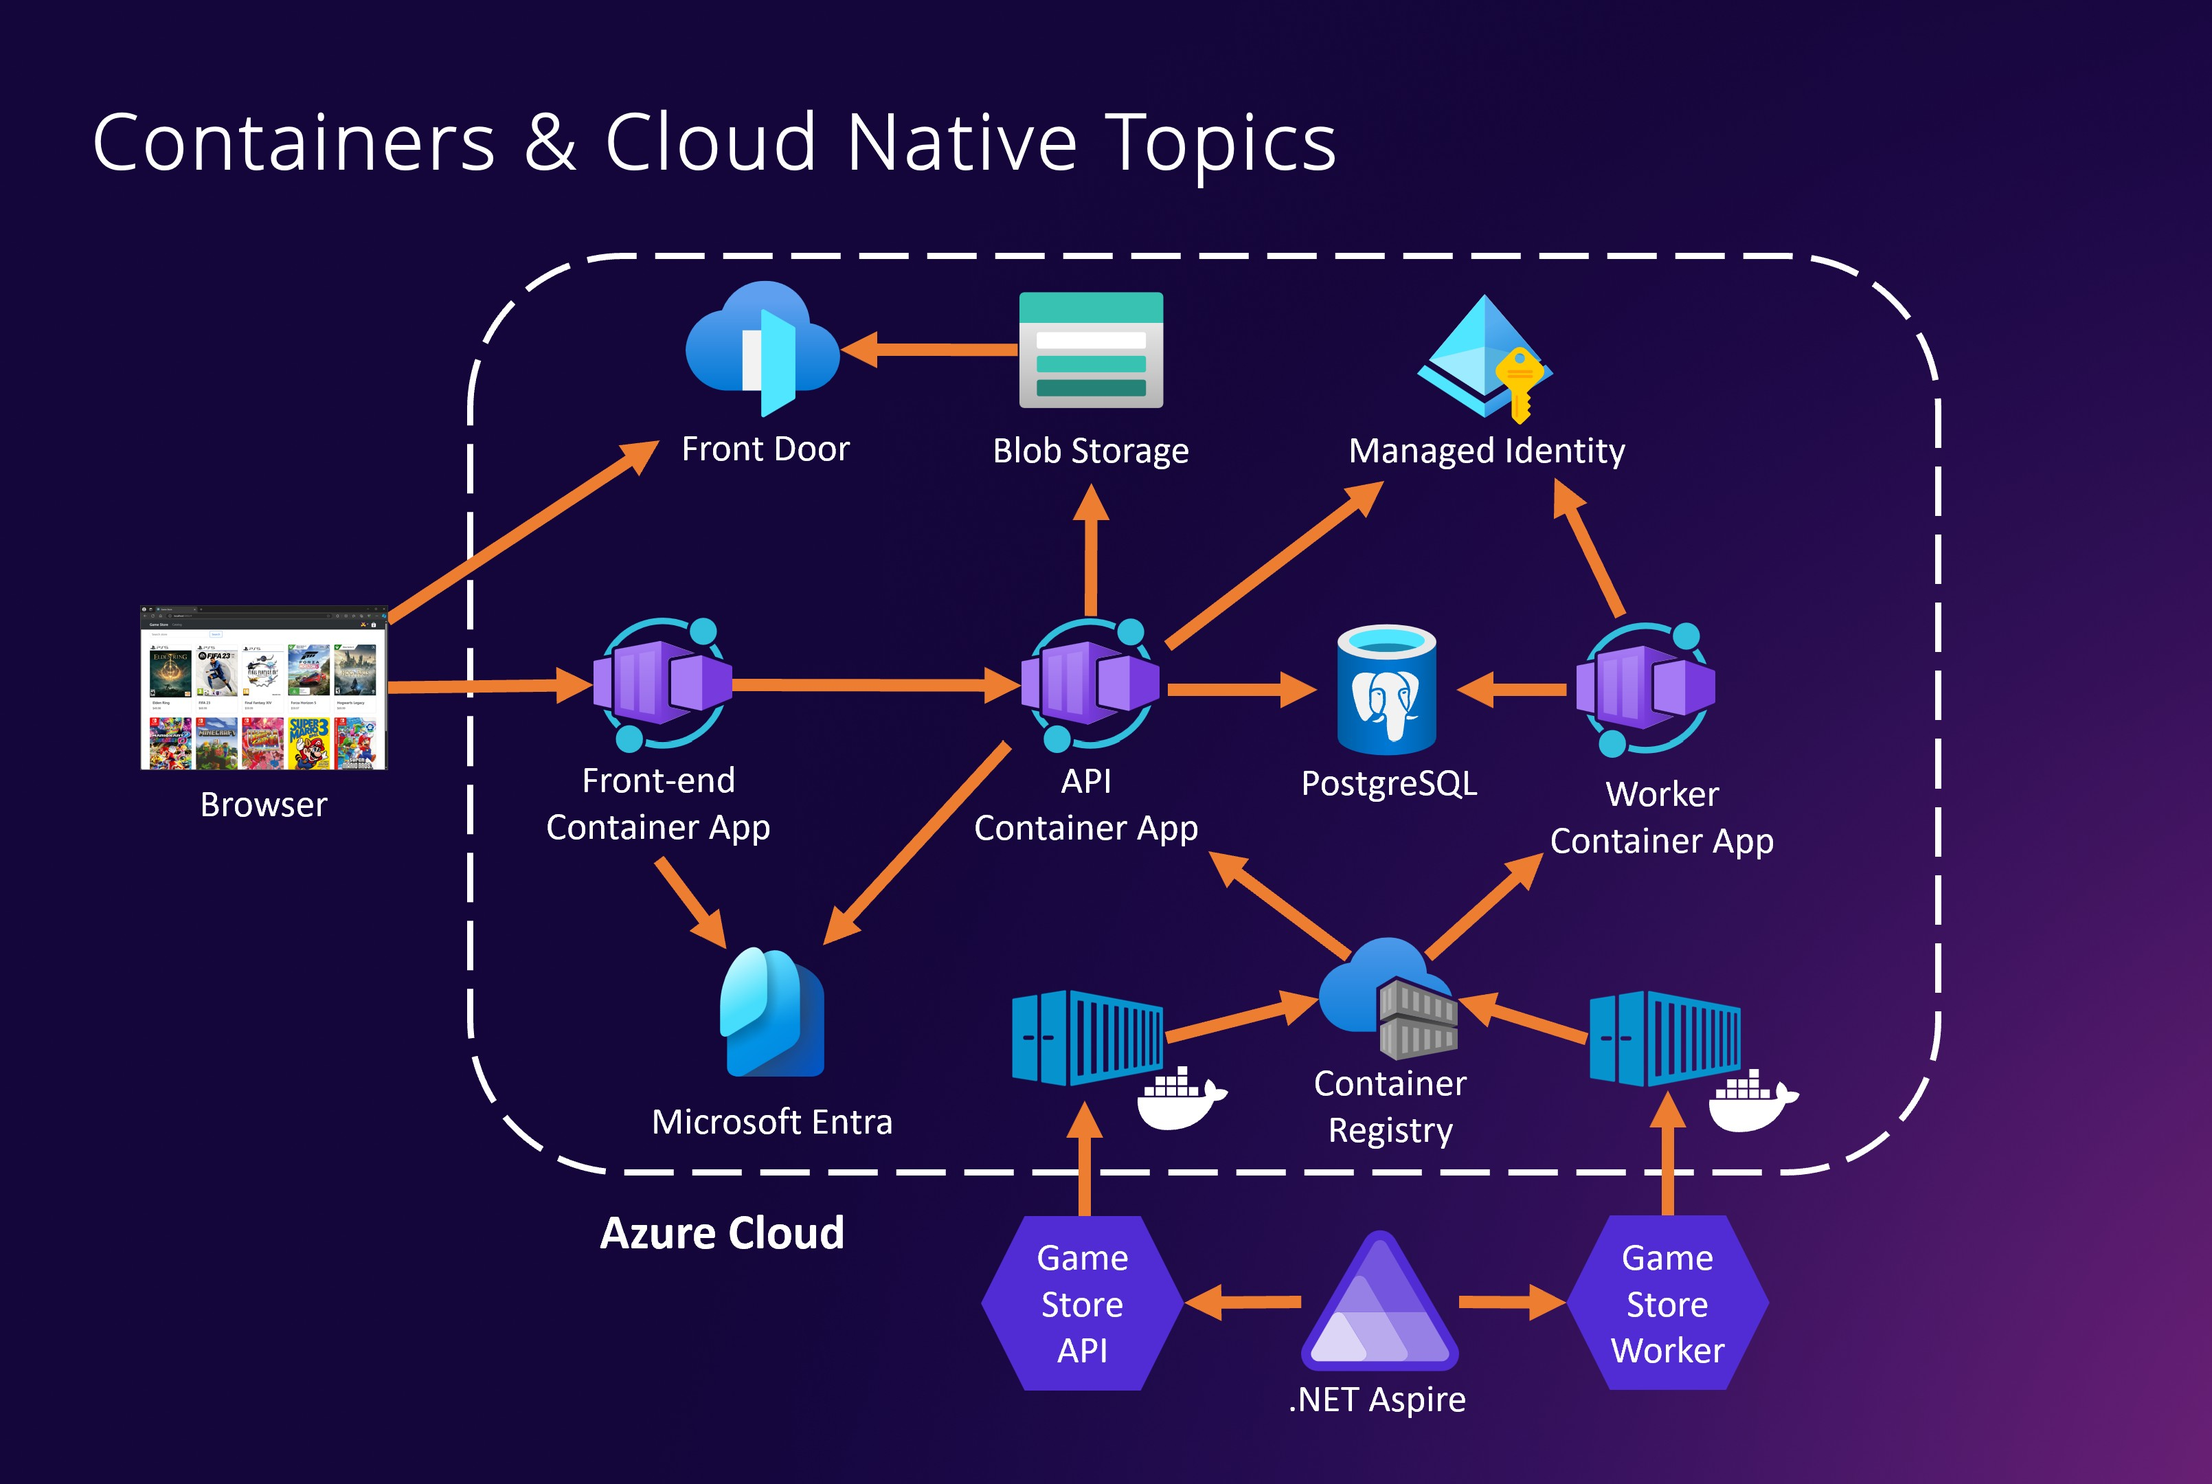
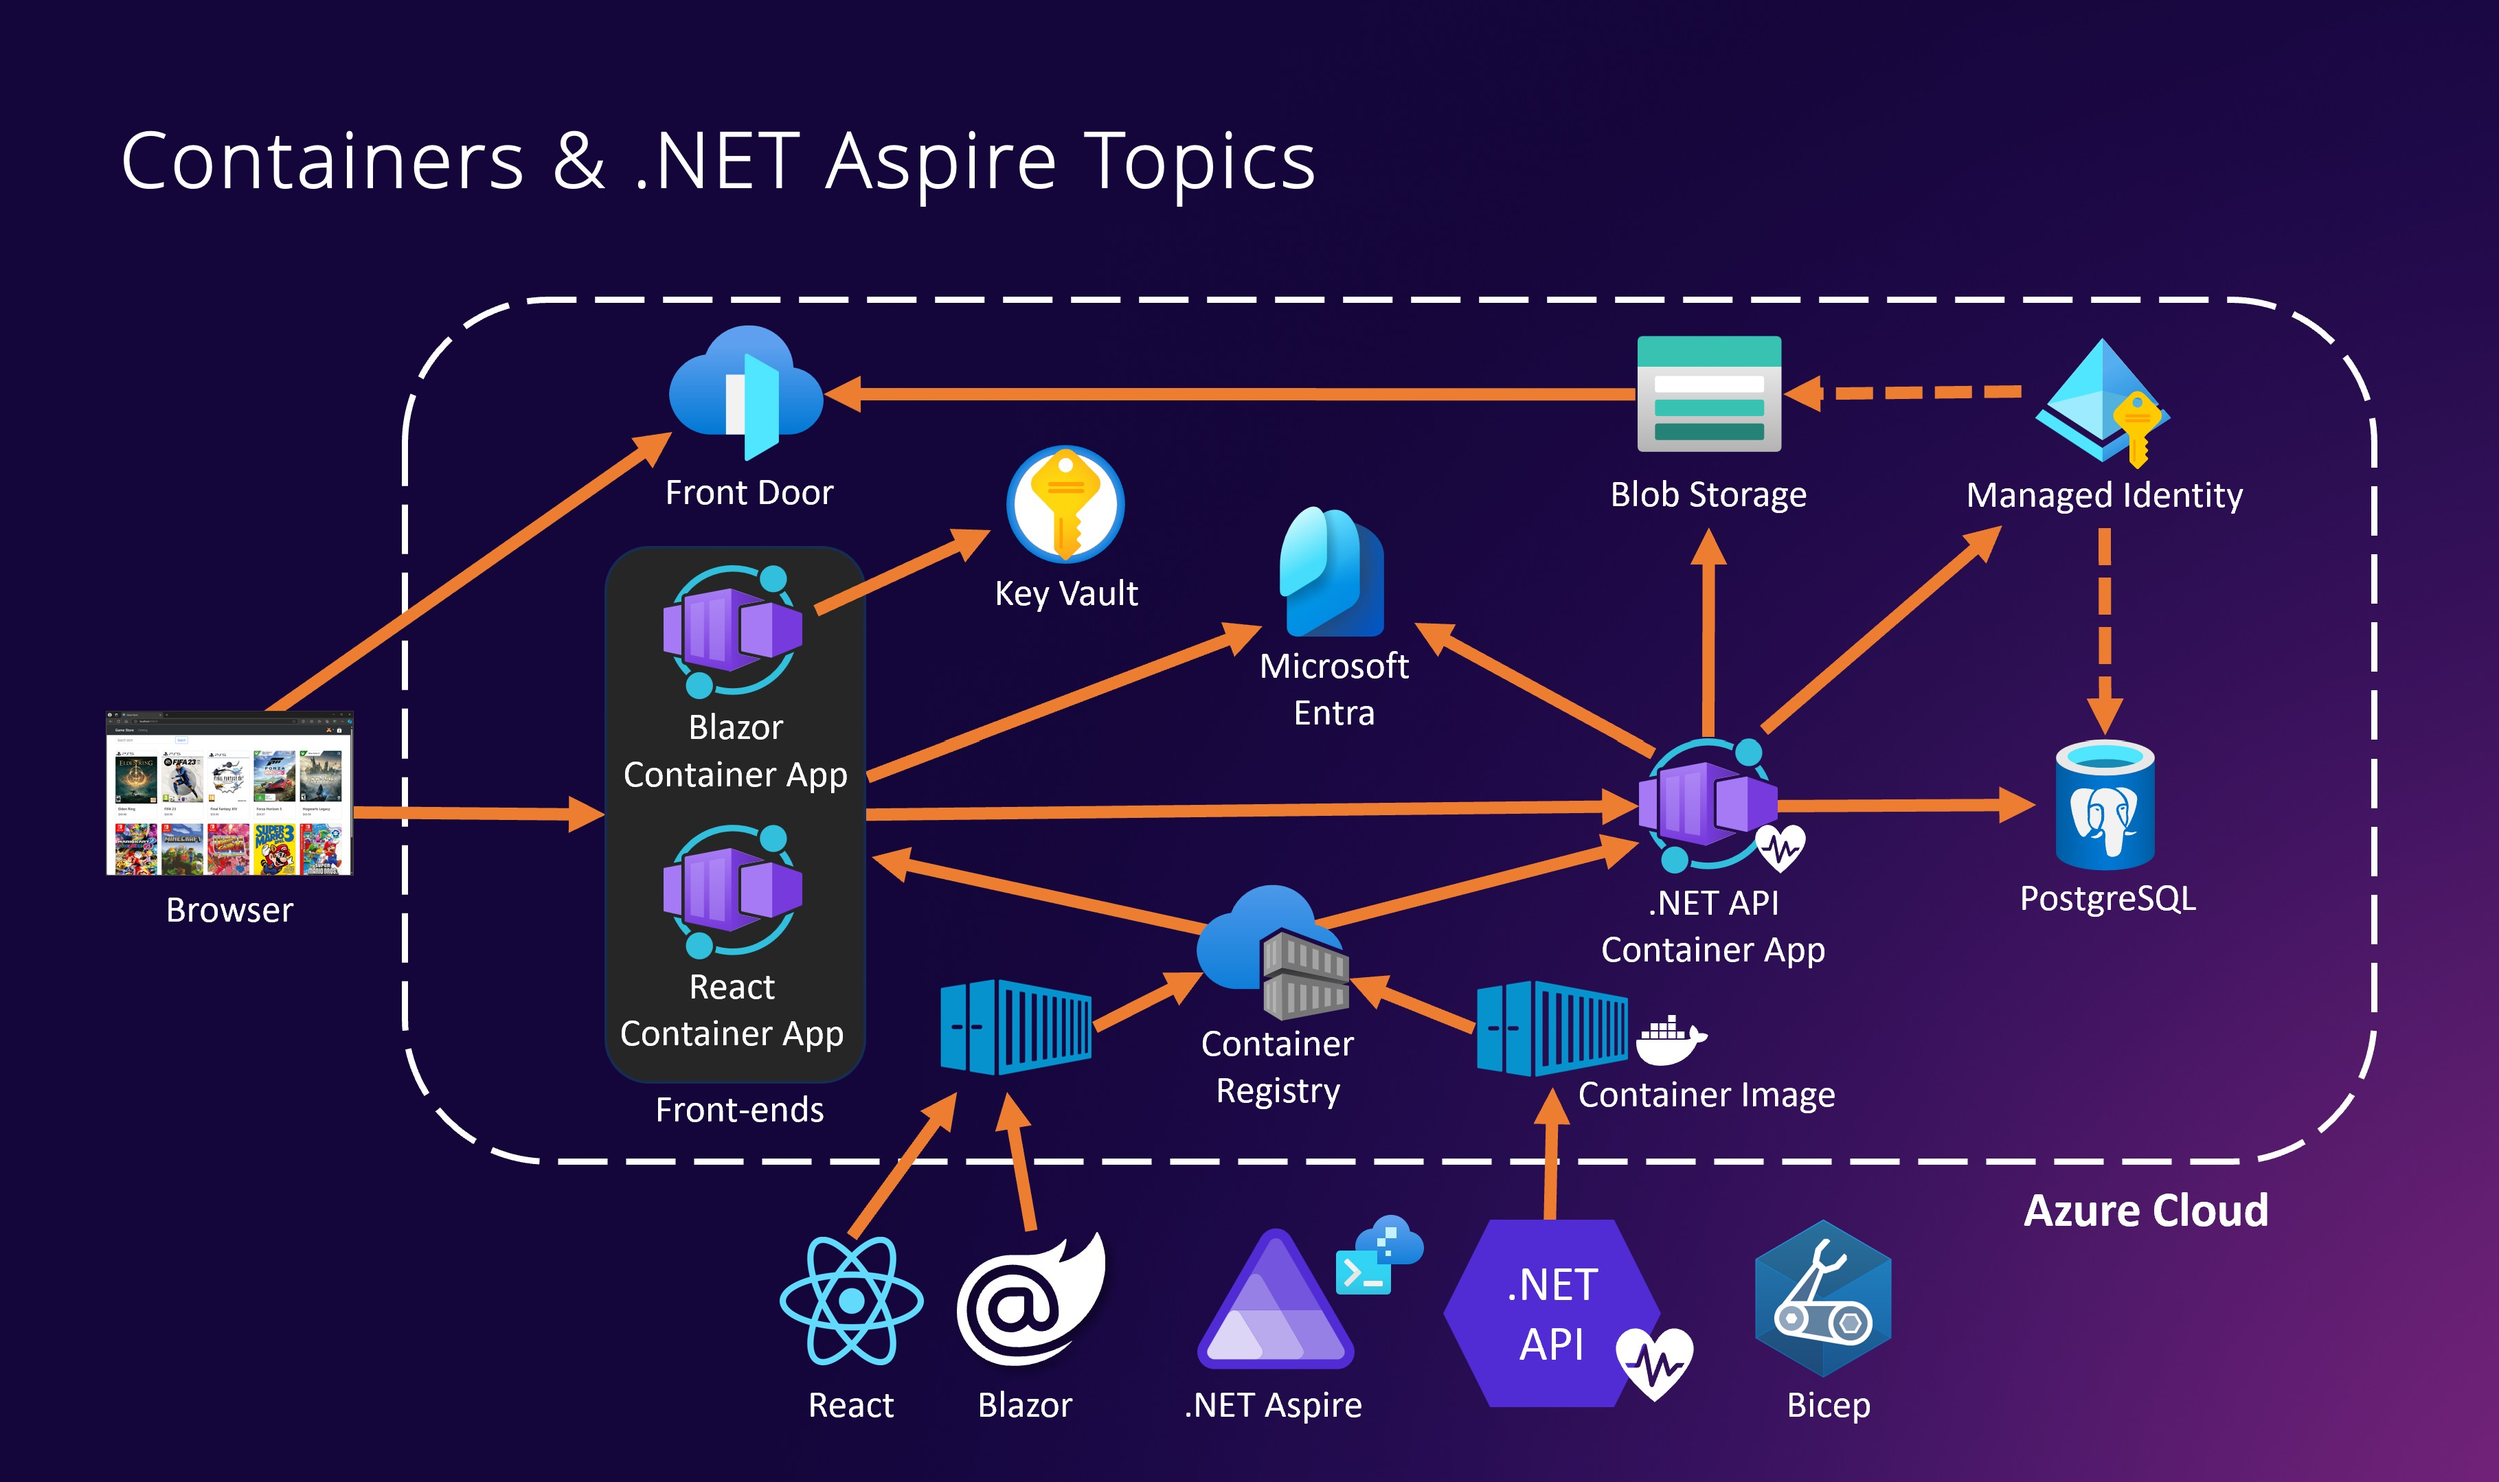
Update bootcamp dates and topics

diff --git a/courses/dotnetbootcamp.html b/courses/dotnetbootcamp.html
@@ -2063,7 +2063,7 @@
         <div class="container">
             <div class="row justify-content-center mt-4">
                 <div class="col-lg-8">
-                    <h2 class="h2-heading display-4 font-weight-bold">Course 5: Containers & Cloud Native</h2>
+                    <h2 class="h2-heading display-4 font-weight-bold">Course 5: Containers & .NET Aspire</h2>
                 </div> <!-- end of col -->
             </div> <!-- end of row -->
             <div class="row">
